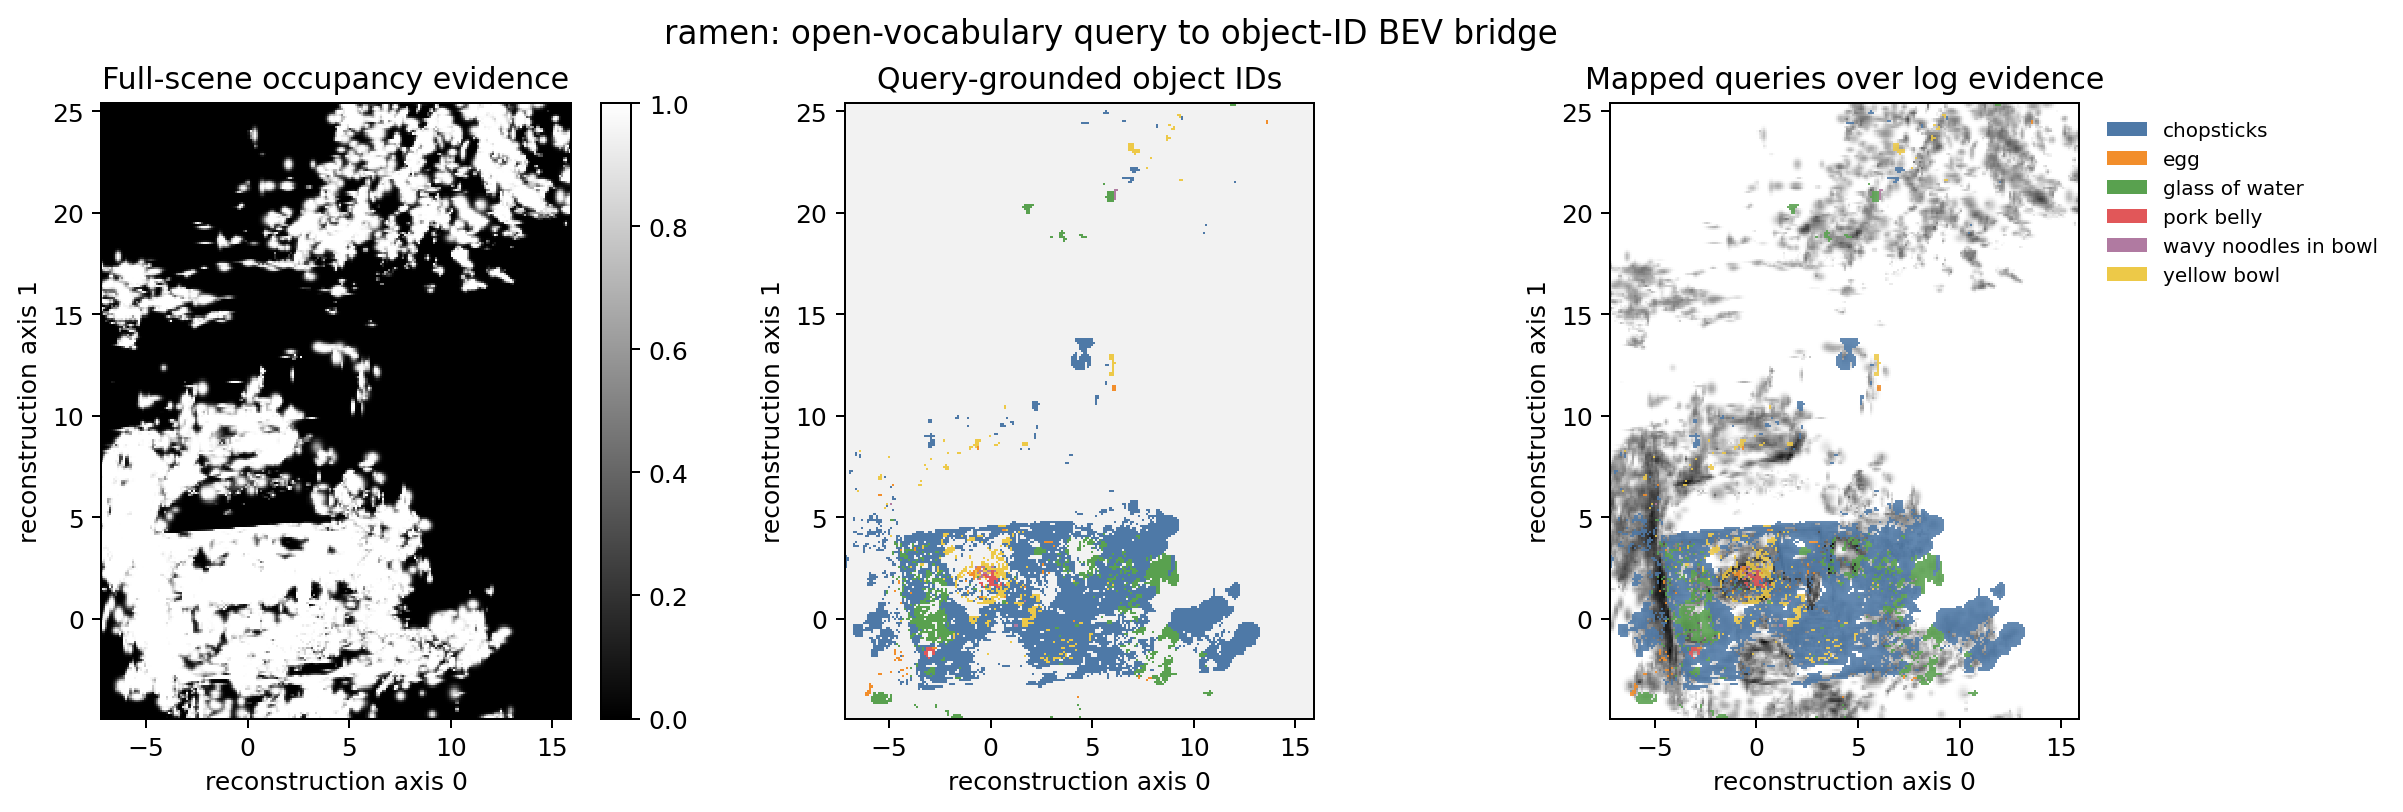
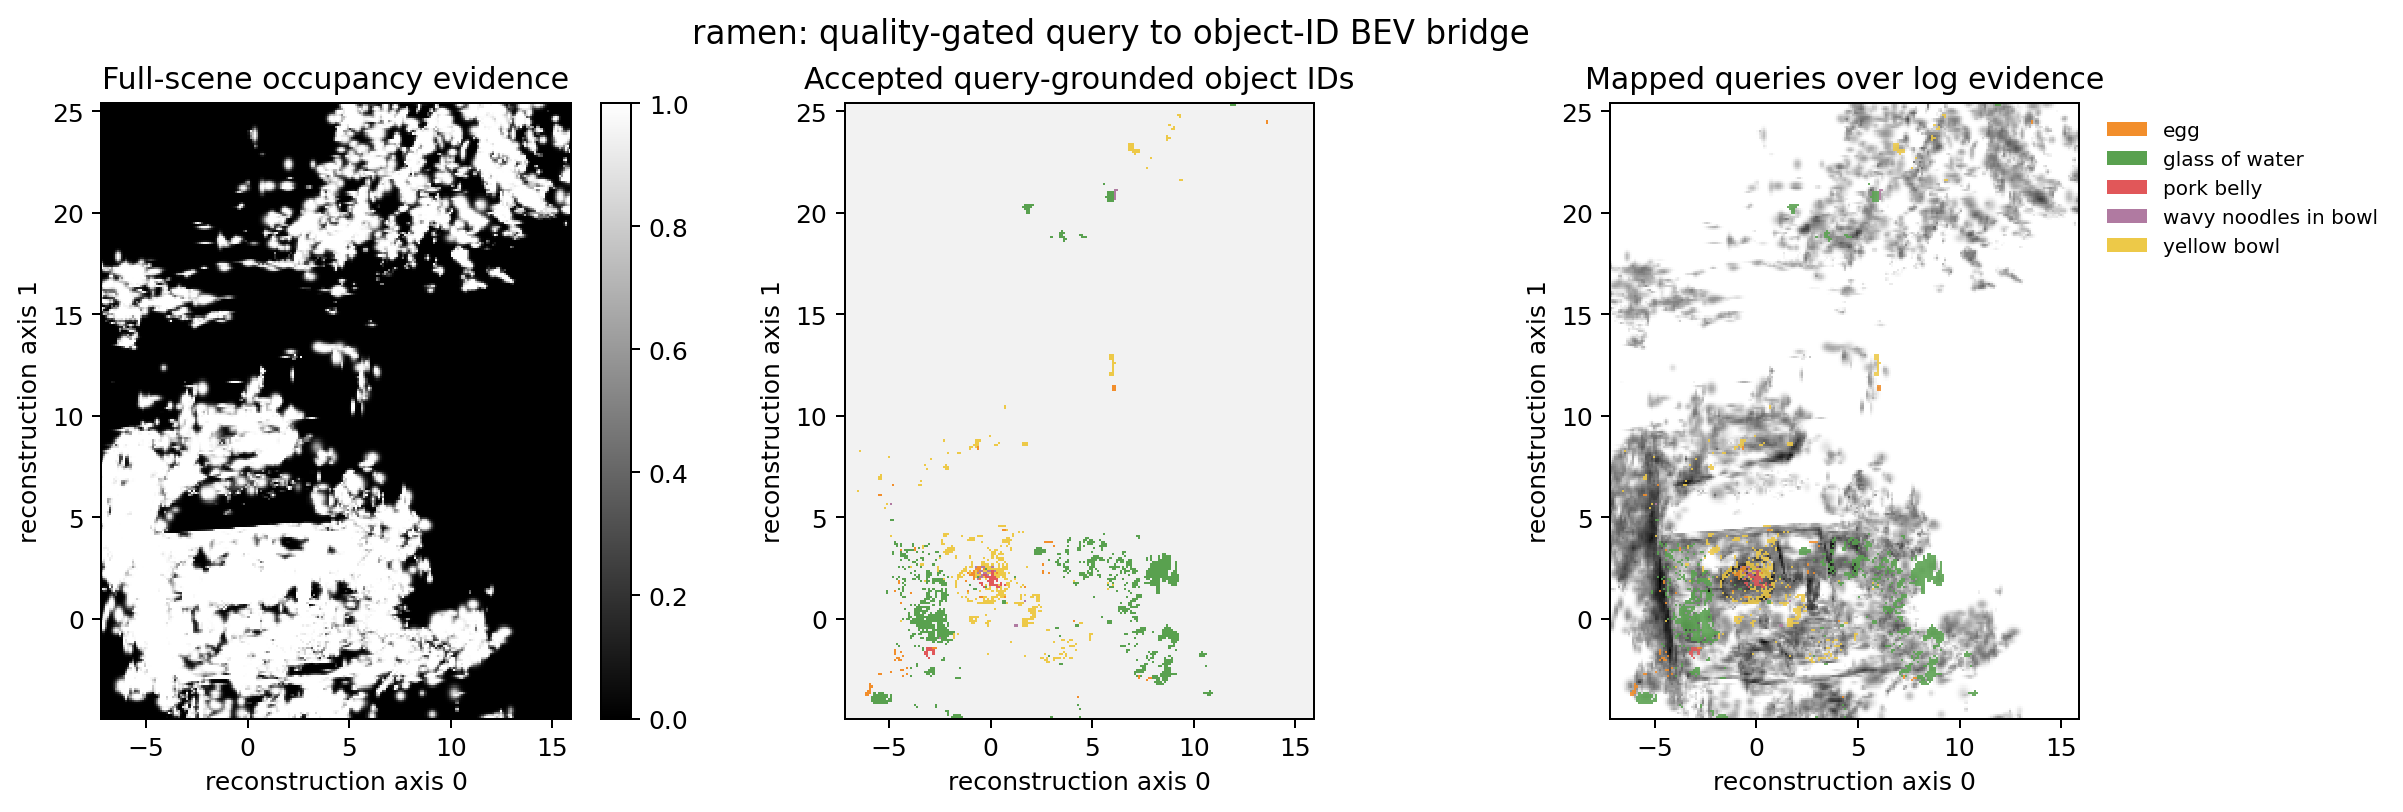
fix: reject failed chopsticks query mapping

diff --git a/scripts/visualize_named_query_bev.py b/scripts/visualize_named_query_bev.py
@@ -40,7 +40,22 @@ def main() -> None:
     labels = data["bev_semantic_ids"]
     unknown = data["bev_unknown_mask"]
 
-    queries = list(mapping["queries"].items())
+    configured_queries = list(mapping["queries"].items())
+    queries = [
+        (query, info)
+        for query, info in configured_queries
+        if info.get("include_in_named_bev", True)
+    ]
+    excluded_queries = [
+        {
+            "query": query,
+            "status": info["status"],
+            "object_ids": info["object_ids"],
+            "quality_note": info.get("quality_note", ""),
+        }
+        for query, info in configured_queries
+        if not info.get("include_in_named_bev", True)
+    ]
     named = np.full(labels.shape, -1, dtype=np.int16)
     owner_by_id: dict[int, str] = {}
     stats: dict[str, dict[str, object]] = {}
@@ -93,7 +108,9 @@ def main() -> None:
     summary = {
         "scene": mapping["scene"],
         "mapping_method": mapping["mapping_method"],
-        "query_count": len(queries),
+        "configured_query_count": len(configured_queries),
+        "accepted_query_count": len(queries),
+        "excluded_queries": excluded_queries,
         "configured_object_id_count": len(owner_by_id),
         "overlapping_object_id_assignments": overlaps,
         "bounded_full_scene_bev_known_cells": known_cells,
@@ -142,7 +159,7 @@ def main() -> None:
         interpolation="nearest",
         aspect="equal",
     )
-    axes[1].set_title("Query-grounded object IDs")
+    axes[1].set_title("Accepted query-grounded object IDs")
 
     axes[2].imshow(
         np.log1p(evidence).T,
@@ -179,7 +196,7 @@ def main() -> None:
         axis.set_xlabel("reconstruction axis 0")
         axis.set_ylabel("reconstruction axis 1")
     fig.suptitle(
-        f"{mapping['scene']}: open-vocabulary query to object-ID BEV bridge",
+        f"{mapping['scene']}: quality-gated query to object-ID BEV bridge",
         fontsize=13,
     )
 

diff --git a/docs/ramen_named_query_bev.md b/docs/ramen_named_query_bev.md
@@ -2,9 +2,10 @@
 
 ## Purpose
 
-This experiment connects six human-readable text queries to the ILGS classifier object IDs
-selected by multi-view query-mask voting, then visualizes those IDs in the memory-bounded
-full-scene BEV. It does not reinterpret all 256 classifier indices as human semantic classes.
+This experiment processes six human-readable text queries with ILGS multi-view query-mask
+voting. Five pass a mask/overlay quality gate and are connected to classifier object IDs in
+the memory-bounded full-scene BEV; `chopsticks` is rejected. The experiment does not
+reinterpret all 256 classifier indices as human semantic classes.
 
 ## Reproduce
 
@@ -23,25 +24,23 @@ versioned.
 
 ## Query mapping and bounded-BEV result
 
-| Query | Object IDs | Export Gaussians | Usable views | BEV cells | Cells at occupancy ≥ 0.5 |
+| Accepted query | Object IDs | Export Gaussians | Usable views | BEV cells | Cells at occupancy ≥ 0.5 |
 |---|---|---:|---:|---:|---:|
-| chopsticks ⚠ | 1, 15, 57, 112, 119 | 213,370 | 4 | 7,152 | 5,926 |
 | egg | 107, 109, 123, 238 | 14,529 | 4 | 95 | 85 |
 | glass of water | 53, 75, 129, 141 | 57,004 | 4 | 1,268 | 1,047 |
 | pork belly | 120, 212 | 18,223 | 4 | 48 | 47 |
 | wavy noodles in bowl | 28 | 9,563 | 4 | 28 | 26 |
 | yellow bowl | 108 | 51,582 | 4 | 506 | 445 |
 
-All 17 configured IDs are visible in the bounded 200,000-Gaussian run and no ID is assigned
-to more than one query. The six mappings cover 9,097 cells, or 25.13% of the 36,196 BEV
-cells with Gaussian evidence.
+All 12 accepted IDs are visible in the bounded 200,000-Gaussian run and no ID is assigned
+to more than one accepted query. The five mappings cover 1,945 cells, or 5.37% of the
+36,196 BEV cells with Gaussian evidence.
 
-![Six-query named BEV](assets/ramen_named_query_bev.png)
+![Quality-gated named BEV](assets/ramen_named_query_bev.png)
 
 ## Interpretation boundaries
 
-- `chopsticks` requires mask inspection and re-export. Its 213,370 selected Gaussians and
-  7,152 BEV cells are unusually broad and likely include background or adjacent regions.
+- `chopsticks` is excluded because its masks and overlays fail the quality review below.
 - A mapping means the query-mask export selected those object IDs; it is not a semantic OCC
   ground-truth label and does not establish per-class IoU or mIoU.
 - The full-scene baseline keeps the top 200,000 Gaussians after filtering and uses the
@@ -72,11 +71,20 @@ they are not gravity-aligned views and do not identify a physical object by them
 
 ![Chopsticks object-ID spatial audit](assets/ramen_chopsticks_id_spatial_audit.png)
 
-ID 1 is therefore the first contamination candidate. Excluding it would leave IDs 15, 57,
-112 and 119, totaling 43,961 Gaussians and 908 cells in the current bounded BEV. This is a
-diagnostic candidate, not an accepted correction: the four per-view mask-vote overlays must
-show consistent physical chopstick localization before the mapping is replaced. The frozen
-decision record is in `configs/ramen_chopsticks_audit.json`.
+ID 1 was the first contamination candidate. Excluding it left IDs 15, 57, 112 and 119,
+totaling 43,961 Gaussians and 908 cells in the bounded BEV. The four-view review rejected
+that candidate as well:
+
+- view 3 contributes 175,751 of 184,238 total mask pixels (95.39%) and its query mask
+  visibly covers broad table/background regions;
+- IDs 15, 57 and 112 receive votes only from that failed view;
+- ID 119 receives votes from views 0–2, but its overlays highlight unrelated cups and a
+  distant noodle plate rather than consistently localizing the main-scene chopsticks.
+
+The final decision is to exclude `chopsticks` from the named BEV until its per-view 2D masks
+are regenerated or manually corrected. The frozen decision record is in
+`configs/ramen_chopsticks_audit.json`, with the compact review evidence in
+`outputs/ramen_full_semantic/chopsticks_mask_vote_review.json`.
 
 Server-side audit rerun:
 
@@ -89,5 +97,5 @@ python export_query_gaussians.py \
   --skip_normals
 ```
 
-This rerun writes `mask_vote_summary.json` plus `mask_vote_vis/*_rgb_query_selected.png`,
-which are the evidence needed for the final accept/reject decision.
+This rerun produced `mask_vote_summary.json` and four
+`mask_vote_vis/*_rgb_query_selected.png` overlays used for the rejection decision.

diff --git a/README.md b/README.md
@@ -53,32 +53,30 @@ evidence accumulation. See
 
 ### Open-vocabulary query bridge
 
-Six language queries were grounded to 17 classifier object IDs by ILGS multi-view
-query-mask voting and isolated Gaussian export, then projected onto the same bounded
-full-scene BEV:
+Six language queries were processed by ILGS multi-view query-mask voting and isolated
+Gaussian export. A mask/overlay quality gate accepts five queries mapped to 12 classifier
+object IDs and rejects `chopsticks` before projection onto the bounded full-scene BEV:
 
 ![Named query mapping](docs/assets/ramen_named_query_bev.png)
 
-| Query | Object IDs | Query-export Gaussians | BEV cells |
+| Accepted query | Object IDs | Query-export Gaussians | BEV cells |
 |---|---|---:|---:|
-| chopsticks ⚠ | 1, 15, 57, 112, 119 | 213,370 | 7,152 |
 | egg | 107, 109, 123, 238 | 14,529 | 95 |
 | glass of water | 53, 75, 129, 141 | 57,004 | 1,268 |
 | pork belly | 120, 212 | 18,223 | 48 |
 | wavy noodles in bowl | 28 | 9,563 | 28 |
 | yellow bowl | 108 | 51,582 | 506 |
 
-The 17 assignments do not overlap and all are visible in this 200k-Gaussian run. Together
-they cover 9,097 of 36,196 BEV cells with evidence. `chopsticks` is deliberately flagged:
-its unusually large export and broad 7,152-cell footprint suggest background or adjacent
-regions may have been included. These are query-grounded ID mappings, not a trained
-human-category classifier or semantic OCC accuracy result. See
+The 12 accepted assignments do not overlap and all are visible in this 200k-Gaussian run.
+Together they cover 1,945 of 36,196 BEV cells with evidence (5.37%). These are
+query-grounded ID mappings, not a trained human-category classifier or semantic OCC
+accuracy result. See
 [`docs/ramen_named_query_bev.md`](docs/ramen_named_query_bev.md).
 
-A full-scene audit confirms that the export itself is internally consistent: all 213,370
-rows correspond to the selected IDs. Object ID 1 contributes 169,409 rows (79.40%) and is
-the primary mask-review candidate; it is not automatically discarded without checking the
-per-view overlays.
+`chopsticks` is rejected rather than merely hidden: one view supplies 175,751 pixels, or
+95.39% of all query-mask pixels, and visibly covers broad table/background regions.
+Removing dominant ID 1 still highlights unrelated cups and a distant noodle plate, so the
+remaining IDs are not promoted as a clean mapping.
 
 ### Real ILGS query export
 
@@ -179,7 +177,7 @@ PowerShell users can also run the source directly with `$env:PYTHONPATH="src"` i
 | Unit tests and synthetic demo | Completed |
 | ILGS PLY to voxel/BEV adapter | Completed |
 | Full-scene hard-label object-ID occupancy | Completed reference baseline |
-| Six-query open-vocabulary ID-to-BEV bridge | Completed with one diagnostic warning |
+| Quality-gated open-vocabulary ID-to-BEV bridge | Five accepted queries; one rejected audit |
 | Rotation-aware full covariance | Planned |
 | PyTorch/autograd implementation | Planned |
 | Camera-ray free-space supervision | Planned |

diff --git a/docs/status.md b/docs/status.md
@@ -23,17 +23,19 @@ Current claim level: a runnable reference baseline exists. Dataset-scale results
 
 ## 2026-09-17
 
-- Completed ILGS query-mask exports for six `ramen` language queries and recorded their
-  17 non-overlapping classifier object IDs.
-- Projected the named IDs through the bounded full-scene hard-label BEV; all configured
-  IDs are visible and together cover 9,097 of 36,196 cells with evidence.
+- Completed ILGS query-mask exports for six `ramen` language queries; five pass the
+  mask/overlay quality gate and map to 12 non-overlapping classifier object IDs.
+- Projected the accepted IDs through the bounded full-scene hard-label BEV; all are visible
+  and together cover 1,945 of 36,196 cells with evidence.
 - Added a reproducible three-panel named-query visualization and machine-readable summary.
 - Flagged `chopsticks` as a diagnostic result because its 213,370-Gaussian export and
   7,152-cell footprint are unusually broad and may contain background leakage.
 - Audited all six mappings against a fresh full-scene classifier pass: every export count
   matches its mapped-ID membership exactly. For `chopsticks`, ID 1 contributes 169,409
-  Gaussians (79.40%) and is now the explicit source-mask review candidate.
+  Gaussians (79.40%). A no-ID-1 rerun was also rejected after the overlay review: one failed
+  view dominates 95.39% of all mask pixels and the retained IDs highlight unrelated objects.
 
-Current claim level: the repository now demonstrates a reproducible open-vocabulary
-query-to-object-ID-to-BEV bridge. It still does not provide metric robot-frame coordinates,
-free-space supervision, semantic OCC ground truth, dynamic reconstruction or ROS2 closure.
+Current claim level: the repository demonstrates a reproducible, quality-gated
+open-vocabulary query-to-object-ID-to-BEV bridge with five accepted queries and one
+documented rejection. It still does not provide metric robot-frame coordinates, free-space
+supervision, semantic OCC ground truth, dynamic reconstruction or ROS2 closure.

diff --git a/docs/full_scene_semantic_result.md b/docs/full_scene_semantic_result.md
@@ -104,11 +104,12 @@ semantic BEV, these IDs account for 48 labeled cells (31 from ID 212 and 17 from
 
 ![Pork belly query bridge](assets/ramen_pork_belly_query_bev.png)
 
-The same export procedure was subsequently run for the other five ramen queries. Across
-all six queries, 17 non-overlapping object IDs are grounded and all appear in the bounded
-full-scene BEV. They cover 9,097 of 36,196 cells with evidence. The named result and exact
-per-query counts are documented in [`ramen_named_query_bev.md`](ramen_named_query_bev.md).
+The same export procedure was subsequently run for the other five ramen queries. After a
+mask/overlay quality gate, five queries with 12 non-overlapping object IDs are accepted and
+all appear in the bounded full-scene BEV. They cover 1,945 of 36,196 cells with evidence.
+The named result and exact per-query counts are documented in
+[`ramen_named_query_bev.md`](ramen_named_query_bev.md).
 
-The `chopsticks` result remains diagnostic rather than presentation-grade: its export has
-213,370 Gaussians and covers 7,152 BEV cells, far more than the other queries, so its source
-masks should be audited for background or adjacent-region leakage.
+The `chopsticks` result is rejected: one view contributes 95.39% of all query-mask pixels
+and covers broad table/background regions. Removing dominant ID 1 does not fix the
+localization, because the retained overlays still highlight unrelated objects.
